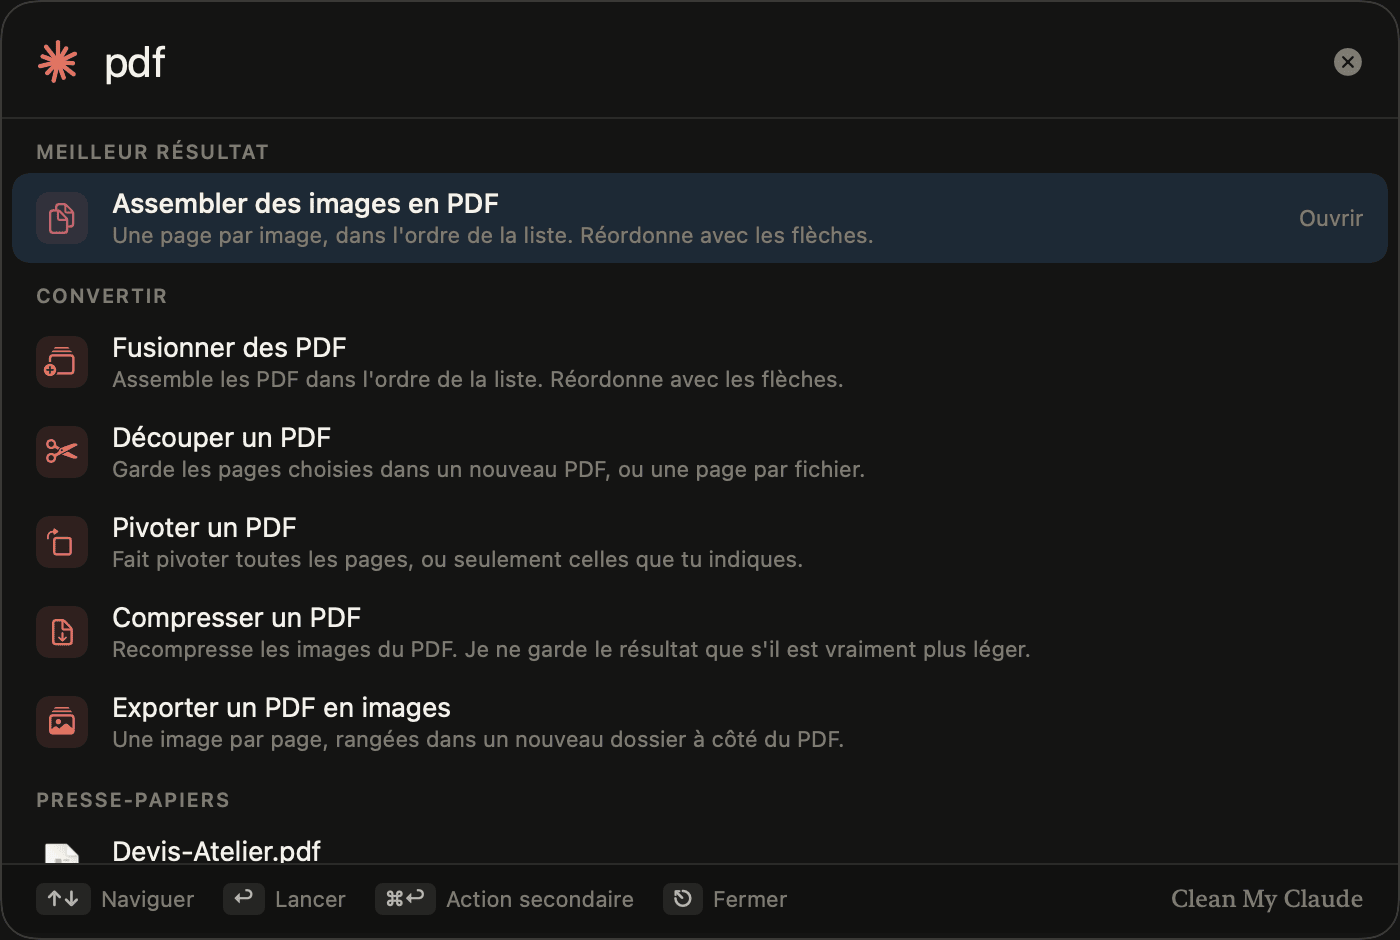
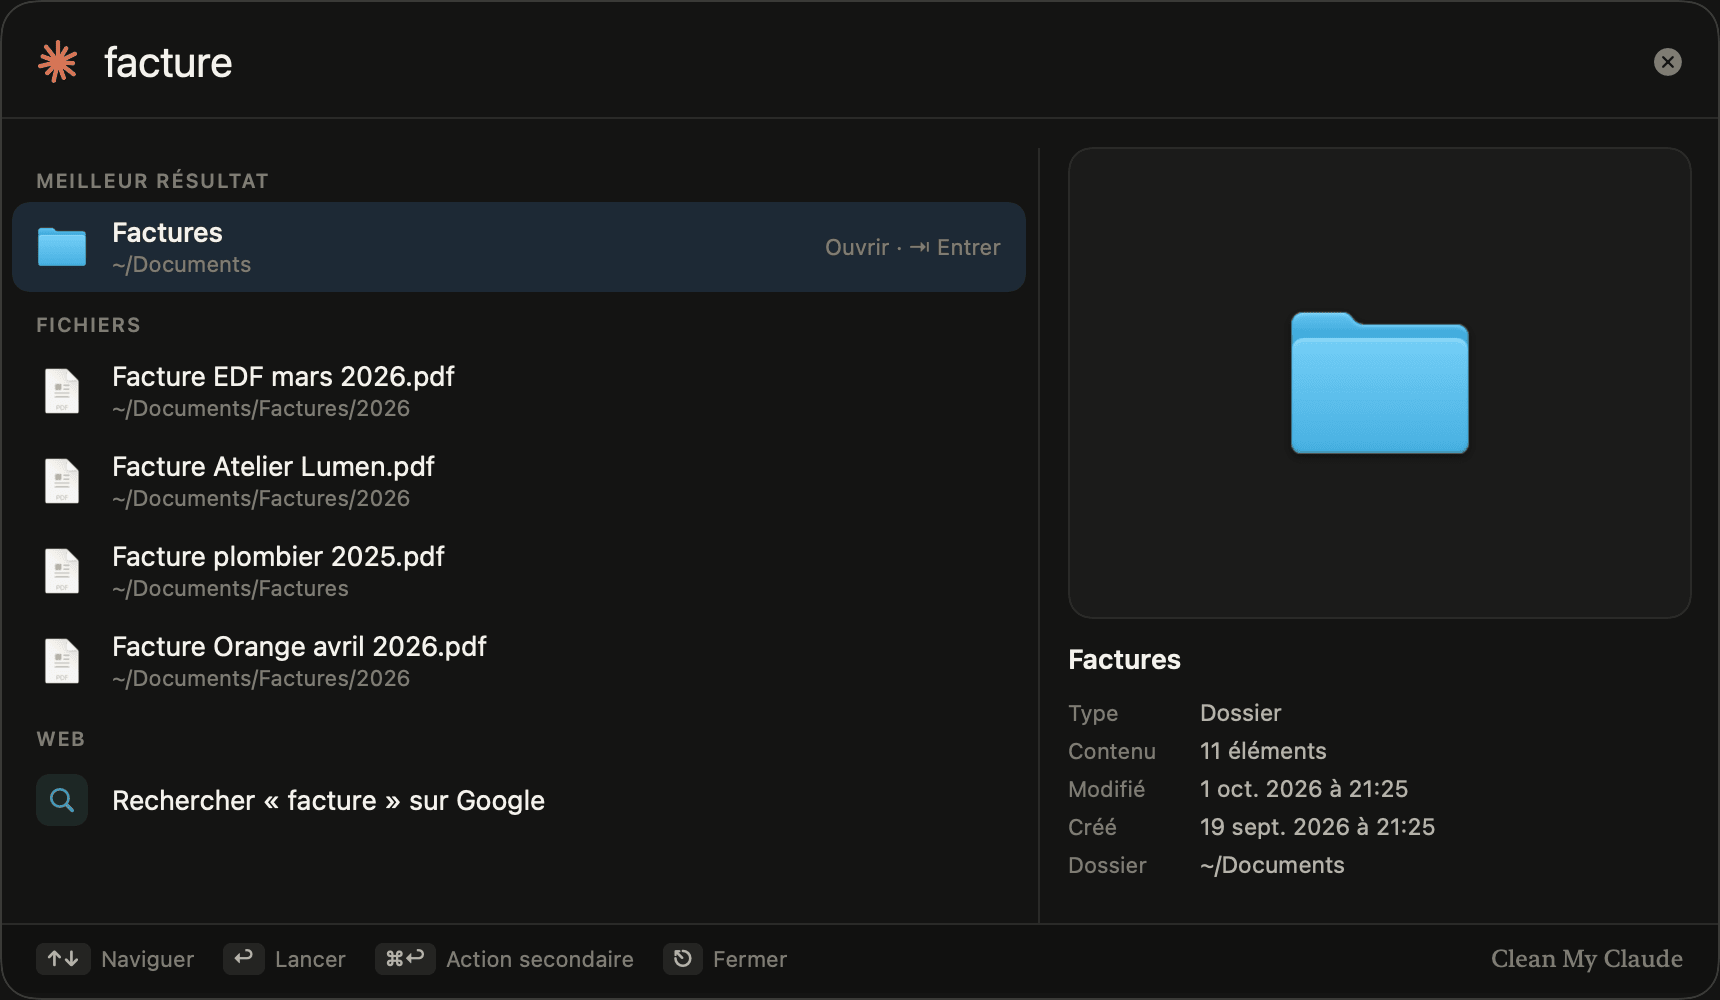
README et captures : traducteur, raccourcis, recherche instantanée, arrière-plan

diff --git a/README.md b/README.md
@@ -5,9 +5,9 @@
 <h1 align="center">Clean My Claude</h1>
 
 <p align="center"><b>« Claude, nettoie mon Mac. » Et tant qu'à faire, tout le reste.</b><br>
-L'app Mac tout-en-un, native et sans dépendance : entretien façon CleanMyMac, lanceur façon Raycast,<br>
-convertisseur de fichiers, outils du quotidien, mises à jour, réseau, fenêtres, automatisations et un assistant Claude.<br>
-Libre, gratuite, et rien ne sort de ton Mac sans ton clic.</p>
+L'app Mac tout-en-un, native et sans dépendance : entretien façon CleanMyMac, lanceur façon Raycast avec recherche de fichiers instantanée,<br>
+convertisseur, traducteur, raccourcis d'apps, outils du quotidien, mises à jour, réseau, fenêtres, automatisations et un assistant Claude.<br>
+Toujours là en arrière-plan, sans icône dans le Dock. Libre, gratuite, et rien ne sort de ton Mac sans ton clic.</p>
 
 <p align="center">
   <img src="docs/screenshots/dashboard.png" alt="Tableau de bord : score de santé, stockage, mémoire, processeur, batterie, analyse intelligente, activité en direct, conseils et état de chaque outil" width="900">
@@ -19,8 +19,16 @@ Libre, gratuite, et rien ne sort de ton Mac sans ton clic.</p>
     <th>Convertisseur</th>
   </tr>
   <tr>
-    <td valign="top" align="center"><img src="docs/screenshots/launcher-panel.png" alt="Lanceur : la recherche « pdf » propose les actions du convertisseur et un fichier de l'historique du presse-papiers"></td>
+    <td valign="top" align="center"><img src="docs/screenshots/launcher-panel.png" alt="Lanceur : la recherche « facture » trouve un dossier et des PDF en un instant, avec l'aperçu du dossier sélectionné à droite"></td>
     <td valign="top"><img src="docs/screenshots/converter.png" alt="Convertisseur : photos HEIC à convertir en JPEG sans localisation, vidéos en cours de compression"></td>
+  </tr>
+  <tr>
+    <th>Traducteur</th>
+    <th>Raccourcis</th>
+  </tr>
+  <tr>
+    <td valign="top"><img src="docs/screenshots/translator.png" alt="Traducteur : un texte français traduit en anglais sur le Mac, la liste des langues téléchargées ou à télécharger et l'historique"></td>
+    <td valign="top"><img src="docs/screenshots/hotkeys.png" alt="Raccourcis : des apps, un dossier, un site et une action ouverts par ⌃⌥⌘ + une lettre, avec des suggestions"></td>
   </tr>
   <tr>
     <th>Nettoyage du système</th>
@@ -80,7 +88,7 @@ Libre, gratuite, et rien ne sort de ton Mac sans ton clic.</p>
 
 <sub>Captures réalisées avec des données fictives (mode `--demo`) : ni les apps, ni les fichiers, ni les personnes montrés n'existent.</sub>
 
-> *English: an all-in-one native macOS app: maintenance (cleanup, security audit, startup items, uninstaller, disk map), a Raycast-like launcher, a file converter, everyday tools, clipboard history, updates, network tools, window management, automations and a Claude assistant. The interface is in French.*
+> *English: an all-in-one native macOS app that lives in the background: maintenance (cleanup, security audit, startup items, uninstaller, disk map), a Raycast-like launcher with instant file search and Quick Look previews, a file converter, an on-device or Claude-powered translator, app hotkeys, everyday tools, clipboard history, updates, network tools, window management, automations and a Claude assistant. The interface is in French.*
 
 > Projet personnel et non officiel, sans lien avec Anthropic, MacPaw ni Raycast. « Claude » est une marque d'Anthropic, « CleanMyMac » une marque de MacPaw.
 
@@ -102,8 +110,10 @@ Libre, gratuite, et rien ne sort de ton Mac sans ton clic.</p>
 
 | Section | Contenu |
 | --- | --- |
-| **Lanceur** | `⌥Espace` partout, comme Spotlight ou Raycast : apps classées par fréquence, fichiers, **calculatrice** (virgule française acceptée), **unités** (`10 km en miles`, `5 Go en Mo`, `100 °F en °C`), heure dans le monde, veille, verrouillage, mode sombre, éjection des disques, `quitter Slack`, recherche web (`g`, `ddg`, `yt`, `gh`, `wiki`, `maps`, `trad`), réglages système, emoji, et **toutes les actions de l'app** (`caféine 1h`, `mdp 24`, `#ff8800`, `qr …`, `cb …`, `gauche`, `? une question pour Claude`…) |
+| **Lanceur** | `⌥Espace` partout, comme Spotlight ou Raycast : apps classées par fréquence, **fichiers trouvés instantanément** avec leur **aperçu Quick Look** à côté (voir plus bas), parcours des dossiers (`~/Documents/`, ⇥ pour entrer), recherche dans le contenu (`dans devis cuisine`), **calculatrice** (virgule française acceptée), **unités** (`10 km en miles`, `5 Go en Mo`, `100 °F en °C`), **traduction** (`trad bonjour en espagnol`), heure dans le monde, veille, verrouillage, mode sombre, éjection des disques, `quitter Slack`, recherche web (`g`, `ddg`, `yt`, `gh`, `wiki`, `maps`, `gtrad`), réglages système, emoji, et **toutes les actions de l'app** (`caféine 1h`, `mdp 24`, `#ff8800`, `qr …`, `cb …`, `gauche`, `? une question pour Claude`…) |
+| **Raccourcis** | Un raccourci clavier pour ouvrir **n'importe quelle app** (appuie de nouveau : elle se masque), un dossier, un site ou une action de l'app. Un clic sur une suggestion lui donne `⌃⌥⌘` + une lettre libre de son nom, adaptée à ton clavier (AZERTY ou QWERTY). Aucune autorisation nécessaire |
 | **Convertisseur** | Glisser-déposer, lanceur, Dock ou clic droit dans le Finder (**Services › Convertir avec Clean My Claude**). Images (HEIC, JPEG, PNG, AVIF, TIFF, GIF, BMP, PDF, JPEG 2000 ; redimensionner, compresser, **retirer le GPS** sans recompresser), vidéo (H.264, HEVC, MOV ↔ MP4 sans réencodage, **vidéo → GIF**, extraction de l'audio), audio (AAC, ALAC, WAV, AIFF, FLAC), PDF (fusionner, découper, pivoter, alléger, images ↔ PDF), documents (Word, RTF, HTML, TXT, ODT, Markdown → HTML ou PDF), ZIP, **renommage par lot** avec aperçu, **OCR** en français et en anglais, QR codes. MP3, OGG, MKV ou WebM si `ffmpeg` est installé |
+| **Traducteur** | Deux moteurs : **Apple, sur ton Mac**, hors ligne et instantané (les langues se téléchargent une fois depuis la page), ou **Claude** pour le ton (neutre, formel, familier) et les nuances. Détection de la langue, inversion, historique local, et traduction en direct dans le lanceur |
 | **Boîte à outils** | Pipette et conversions de couleurs, mots de passe et phrases de passe (copie confidentielle effacée au bout de 90 s), empreintes SHA et MD5 de fichiers, Base64, URL, JSON, casse, compteur de mots, Lorem ipsum, UUID, horodatages, et **Caféine** pour empêcher la veille (aussi depuis le menu d'état) |
 | **Presse-papiers** | Historique des textes, images et fichiers copiés, épingles, recherche, rappel depuis le lanceur (`cb …`). **Désactivé tant que tu ne l'actives pas**, il ignore les mots de passe et ce qui est copié depuis un gestionnaire de mots de passe |
 | **Réseau** | Wi-Fi (signal, bruit, canal, débit), adresses locales et publique, **test de débit** (`networkQuality` d'Apple), latence en direct, **ports ouverts** et l'app qui les écoute |
@@ -139,7 +149,25 @@ Tes fichiers, ton historique de presse-papiers et l'état de ton Mac restent sur
 | « Lancer le test » dans Réseau | Apple (`networkQuality`) | Un test de débit |
 | « Afficher » l'IP publique | `api.ipify.org` | Aucune donnée : il te renvoie ton adresse |
 | Une question à l'assistant | Anthropic, via ton abonnement Claude ou ta clé API | Ta question ; l'état du Mac (charge, espace, apps gourmandes) seulement si tu actives « Consulter l'état du Mac » |
+| « Traduire avec Claude » | Anthropic, via ton abonnement Claude ou ta clé API | Le texte à traduire (la traduction Apple, elle, reste sur ton Mac) |
 | Une recherche web dans le lanceur | Ton navigateur | Ce que tu as tapé, comme dans la barre d'adresse |
+
+## La recherche de fichiers, en un millième de seconde
+
+Spotlight met une à quatre secondes à répondre à une recherche par nom : trop lent pour suivre la frappe. Le lanceur garde donc **en mémoire les noms des fichiers** de ton dossier personnel et d'iCloud Drive (environ 2 Mo pour 100 000 fichiers), lus une fois en arrière-plan en quelques secondes, puis **tenus à jour en direct** : macOS (FSEvents) signale les dossiers qui changent et seuls ceux-là sont relus.
+
+| Mesuré sur un Mac de 116 000 fichiers | Temps |
+| --- | --- |
+| Spotlight, nom contenant « facture » | 0,9 s |
+| Spotlight, nom contenant « png » | 3,6 s |
+| Index du lanceur, n'importe quelle recherche | 1 à 3 ms |
+| Construction de l'index (une fois, au lancement) | 2,8 s |
+
+Le classement favorise le nom exact, puis le début du nom, puis le début d'un mot ; ensuite les fichiers modifiés récemment, ceux du Bureau, des Documents, des Téléchargements et d'iCloud Drive, et ceux que tu ouvres souvent. Un mot peut viser un dossier : `edf mars` trouve `Factures/EDF/mars.pdf`. Les dossiers cachés, `~/Library` et les dépendances (`node_modules`, `Pods`…) sont laissés de côté, et l'intérieur des paquets (`.app`, `.photoslibrary`…) n'est pas parcouru. L'index ne quitte jamais la mémoire de ton Mac. Spotlight reste utilisé pour chercher dans le contenu (`dans …`).
+
+## Toujours là, sans prendre de place
+
+Comme Raycast, Clean My Claude n'a pas d'icône dans le Dock : il vit dans la barre des menus et derrière `⌥Espace`. Il s'ouvre à l'ouverture de session sans afficher de fenêtre (réglable), et sa fenêtre se rouvre depuis l'étincelle de la barre des menus, le lanceur ou en relançant l'app. Les réglages permettent de garder l'icône dans le Dock, toujours ou seulement quand la fenêtre est ouverte. Au repos, fenêtre ouverte et tous les modules actifs : environ 1,7 % de processeur et 93 Mo de mémoire.
 
 ## Installation
 
@@ -159,7 +187,7 @@ Aucune n'est obligatoire : chacune est demandée dans la section qui en a besoin
 
 | Autorisation | Pour quoi faire |
 | --- | --- |
-| **Accès complet au disque** (recommandé) | Voir la Corbeille, Mail, Safari et la liste des autorisations de tes apps. Réglages Système › Confidentialité et sécurité › Accès complet au disque |
+| **Accès complet au disque** (recommandé) | Voir la Corbeille, Mail, Safari et la liste des autorisations de tes apps, et indexer tes fichiers sans que macOS demande dossier par dossier (Documents, Bureau, Téléchargements). Réglages Système › Confidentialité et sécurité › Accès complet au disque |
 | **Accessibilité** | Ranger les fenêtres au clavier, coller directement depuis l'historique du presse-papiers |
 | **Localisation** | Afficher le nom du réseau Wi-Fi (macOS le cache sans elle) |
 | **Notifications** | Alertes de disque ou de mémoire, bilan des automatisations |
@@ -205,16 +233,18 @@ swift build
 .build/debug/CleanMyClaude --dump --storage ~/Developer --duplicates ~/Downloads
 .build/debug/CleanMyClaude --snapshot out/        # rend chaque page en PNG (--page, --tab, --light, --scale 2)
 .build/debug/CleanMyClaude --ask "Pourquoi mon Mac chauffe ?" --model haiku   # une question à l'assistant
+.build/debug/CleanMyClaude --translate "Merci pour ton aide" --to en --tone formal   # le traducteur, moteur Claude
+.build/debug/CleanMyClaude --dump --only launcher # construit l'index des fichiers et chronomètre quelques recherches
 .build/debug/CleanMyClaude --demo                 # lance l'app avec des données fictives, sans lire le disque
 ```
 
 `--demo` fonctionne aussi avec `--dump` et `--snapshot`. Les données de démonstration décrivent un Mac inventé : un dossier personnel fictif, des apps aux noms et icônes inventés, leurs caches, processus, agents de démarrage, mises à jour, conversions et historique de presse-papiers. En mode démo, aucun scanner ne lit le disque, aucune commande ni requête n'est lancée et `Remover` refuse toute suppression ; `--selftest --demo` le vérifie sur un fichier témoin. Les captures de ce README en sortent :
 
 ```bash
-for p in dashboard cleanup protection performance apps storage menubar updates converter toolbox clipboard network windows automation assistant; do
+for p in dashboard cleanup protection performance apps storage menubar updates converter translator hotkeys toolbox clipboard network windows automation assistant; do
   .build/debug/CleanMyClaude --snapshot docs/screenshots --demo --scale 2 --page $p
 done
-.build/debug/CleanMyClaude --snapshot docs/screenshots --demo --scale 2 --page launcher --query pdf
+.build/debug/CleanMyClaude --snapshot docs/screenshots --demo --scale 2 --page launcher --query facture
 rm docs/screenshots/menubar.png docs/screenshots/launcher.png docs/screenshots/onboarding-panel.png
 pngquant --quality 80-95 --force --ext .png docs/screenshots/*.png   # optionnel : divise le poids par quatre
 ```
@@ -229,7 +259,8 @@ Sources/CleanMyClaude/
 ├── Core/       mesures système, tailles via fts(3), Shell, Remover, FileOps, HTTP, commandes du lanceur,
 │               raccourcis globaux, panneaux flottants, stockage, Trousseau, notifications, planificateur
 ├── Features/   une section par dossier : Dashboard, Cleanup, Protection, Performance, Updates, Apps, Storage,
-│               Launcher, Converter, Toolbox, Clipboard, Network, Windows, Automation, Assistant, MenuBar
+│               Launcher, Hotkeys, Converter, Translator, Toolbox, Clipboard, Network, Windows, Automation,
+│               Assistant, MenuBar
 └── UI/         thème et composants partagés avec ClaudeStats
 ```
 

diff --git a/CLAUDE.md b/CLAUDE.md
@@ -18,7 +18,7 @@ Relis toujours la capture PNG de ta page. `./scripts/build_app.sh` installe l'ap
 
 - `Core/` : services partagés. Toute suppression passe par `Remover` (`removeInternal` pour les fichiers de l'app dans `DataStore`, `discardOutput` pour une sortie à moitié écrite), toute écriture de fichier par `FileOps` (jamais d'écrasement, `makeDirectory` pour un dossier), tout accès réseau par `HTTP` (HTTPS, sur action de l'utilisateur), tout processus par `Shell` (`run`, `stream`, `which`, `runAsAdmin`). Commandes du lanceur : `Core/Commands.swift` (`CommandRunner.copy(_:concealed:)` pour un secret). Raccourcis globaux : `HotKeyCenter`. Panneaux flottants et messages furtifs : `FloatingPanel`, `HUD`. Persistance : `JSONStore` (dossier `DataStore`). Secrets : `Keychain`. Notifications : `Notifier`. Tâches périodiques : `Scheduler`. Autorisations : `AppPermission` + `PermissionCard`.
 - `App/ModuleRegistry.swift` : le protocole `AppModule` et la liste des modules. Le lanceur, le mode démo, les autotests, les captures et le menu d'état passent par lui.
-- `Features/<Module>/` : un dossier par module (`Launcher`, `Converter`, `Toolbox`, `Clipboard`, `Updates`, `Network`, `Windows`, `Automation`, `Assistant`), avec au minimum `<Module>Model` (`@Observable @MainActor`, conforme à `AppModule`), `<Module>Page` et `<Module>BottomBar`.
+- `Features/<Module>/` : un dossier par module (`Launcher`, `Hotkeys`, `Converter`, `Translator`, `Toolbox`, `Clipboard`, `Updates`, `Network`, `Windows`, `Automation`, `Assistant`), avec au minimum `<Module>Model` (`@Observable @MainActor`, conforme à `AppModule`), `<Module>Page` et `<Module>BottomBar`.
 
 ## Règles pour travailler sur un module
 
